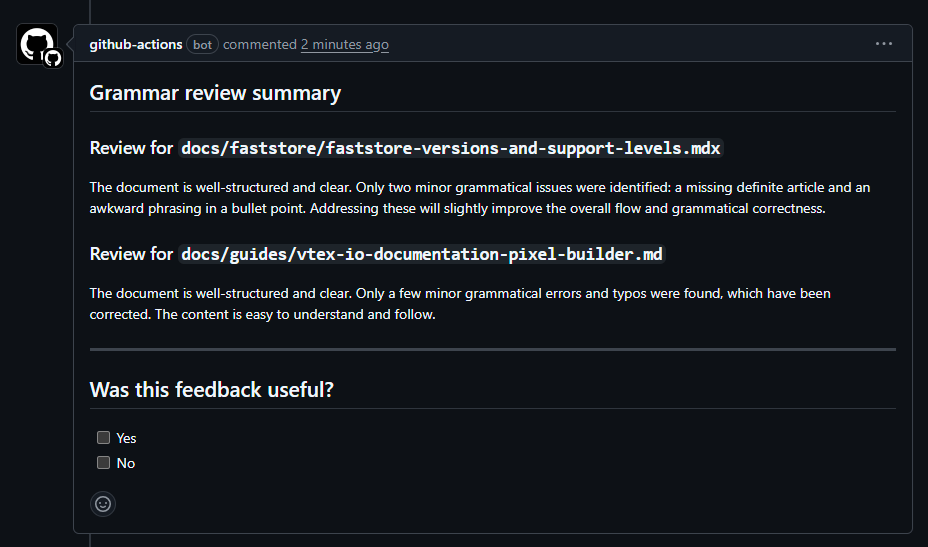
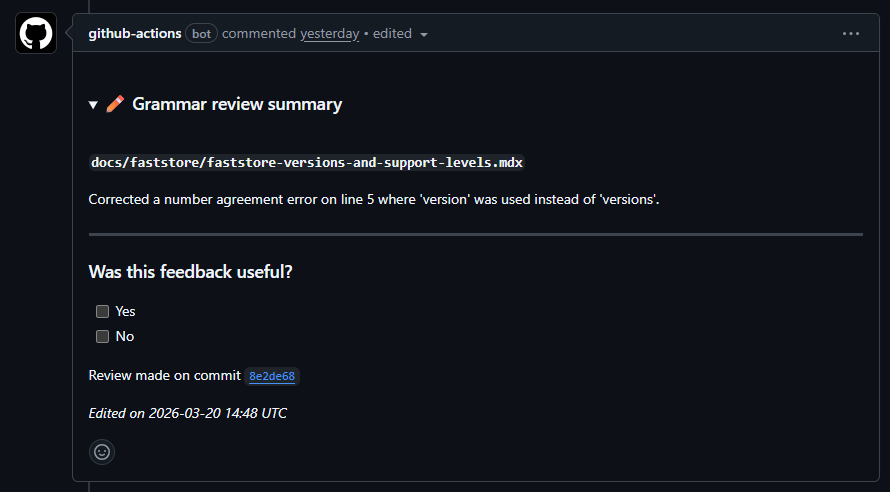
Update README for v0.3

diff --git a/README.md b/README.md
@@ -10,6 +10,8 @@ This action executes a series of steps to read the Markdown files, use Google Ge
 
 The summary comment is a single comment in the PR formatted in Markdown and HTML including a summary of the review for each file reviewed. It also has a feedback option, which is collected by [another action](https://github.com/vtexdocs/dev-portal-content/blob/main/.github/workflows/get_feedback_on_ai_reviewer.yml).
 
+This comment uses `<details>` and `<summary>` tags to contract/expand the comment and avoid long texts in the PR page. It shows the commit ID which the review was done. Also, if the review is done more than once in the PR, the summary comment is edited instead of creating a new one.
+
 ![Summary comment example](./images/summary-comment-example.png)
 
 ### Inline suggestions
@@ -55,42 +57,64 @@ To use this action in your GitHub repository, follow these steps:
                 github_token: ${{ secrets.GITHUB_TOKEN }}
     ```
 
-    The `folders` input is optional. When omitted, only changed files under `docs/` are reviewed. To choose which paths are reviewed, pass `folders` as a newline- or comma-separated list of folder prefixes (e.g. `docs`, `docs/guides`, `docs/release-notes`"):
+## Optional parameters
 
-    ```yml
-            - uses: vtexdocs/ai-grammar-reviewer-action@v0
-              with:
-                gemini_api_key: ${{ secrets.GEMINI_API_KEY }}
-                github_token: ${{ secrets.GITHUB_TOKEN }}
-                folders: |
-                  docs/guides
-                  docs/release-notes
-    ```
+### Folders
 
-    This action also supports `workflow_dispatch`. For dispatch runs, pass the `pr_number` input if the workflow is not triggered by `pull_request`:
+The action has an optional `folders` input. When omitted, only changed files under `docs/` are reviewed. To choose which paths are reviewed, pass `folders` as a newline- or comma-separated list of folder prefixes (e.g. `docs`, `docs/guides`, `docs/release-notes`):
 
-    ```yml
-      on:
-        workflow_dispatch:
-          inputs:
-            pr_number:
-              description: 'Pull request number to review'
-              required: true
-              type: string
+```yml
+        - uses: vtexdocs/ai-grammar-reviewer-action@v0
+          with:
+            gemini_api_key: ${{ secrets.GEMINI_API_KEY }}
+            github_token: ${{ secrets.GITHUB_TOKEN }}
+            folders: |
+              docs/guides
+              docs/release-notes
+```
 
-      jobs:
-        grammar-review:
-          runs-on: ubuntu-latest
-          steps:
-            - uses: actions/checkout@v6
-            - uses: vtexdocs/ai-grammar-reviewer-action@v0
-              with:
-                gemini_api_key: ${{ secrets.GEMINI_API_KEY }}
-                github_token: ${{ secrets.GITHUB_TOKEN }}
-                pr_number: ${{ inputs.pr_number }}
-    ```
+### Workflow dispatch
 
-    If no PR context is available (neither a `pull_request` event nor `pr_number`), the action skips the review.
+This action can also be triggered by `workflow_dispatch` events. For dispatch runs, pass the following optional parameters as input if the workflow is not triggered by `pull_request`:
+
+- `repository`
+- `pr_number`
+- `head_ref`
+- `base_ref`
+- `head_sha`
+
+These parameters are necessary for the workflow to identify the PR and to set the environment variables so that reviewdog posts the inline suggestions.
+
+> [!NOTE]
+> When triggering the action from a workflow with `workflow_dispatch`, [GitHub status checks](https://docs.github.com/en/pull-requests/collaborating-with-pull-requests/collaborating-on-repositories-with-code-quality-features/about-status-checks) won't appear in the PR by default. A possible workaround can be applied using the [GitHub API](https://docs.github.com/en/rest/checks/runs) or the [octokit function](https://octokit.github.io/rest.js/v22/#checks-create) with [`actions/github-script`](https://github.com/marketplace/actions/github-script).
+
+```yml
+  on:
+    workflow_dispatch:
+      inputs:
+        pr_number:
+          description: 'Pull request number to review'
+          required: true
+          type: string
+
+  jobs:
+    grammar-review:
+      runs-on: ubuntu-latest
+      steps:
+        - uses: actions/checkout@v6
+        - uses: vtexdocs/ai-grammar-reviewer-action@v0
+          with:
+            gemini_api_key: ${{ secrets.GEMINI_API_KEY }}
+            github_token: ${{ secrets.GITHUB_TOKEN }}
+            repository: ${{ github.repository }}
+            pr_number: ${{ github.event.pull_request.number }}
+            head_ref: ${{ github.event.pull_request.head.ref }}
+            base_ref: ${{ github.event.pull_request.base.ref }}
+            head_sha: ${{ github.event.pull_request.head.sha }}
+```
+
+> [!IMPORTANT]
+> If no PR context is available (neither a `pull_request` event nor `pr_number` input), the action skips the review.
 
 ## Review tips
 
@@ -127,7 +151,7 @@ The action runs from a Dockerfile that calls a shell script. This script has the
         - A string with the summary of the file review.
     3. Write the lists of issues in a JSON file (`issues.json`), which will be used for the next python script to post the suggestions.
     4. Aggregate the review summaries and use the GitHub API to post them as a single comment along with the feedback option.
-1. Verify if the `issues.json` file exists. If true, execute a Python script (`generate_rdjsonl.py`) to convert the issues JSON to a format that reviewdog accepts and creates another file (`suggestions.rdjsonl`). It uses [RDFormat with rdjsonl](https://github.com/reviewdog/reviewdog/tree/master/proto/rdf#rdjsonl). This script applies the following changes in the issues list before converting to RDFormat:
+2. Verify if the `issues.json` file exists. If true, execute a Python script (`generate_rdjsonl.py`) to convert the issues JSON to a format that reviewdog accepts and creates another file (`suggestions.rdjsonl`). It uses [RDFormat with rdjsonl](https://github.com/reviewdog/reviewdog/tree/master/proto/rdf#rdjsonl). This script applies the following changes in the issues list before converting to RDFormat:
     - Remove issues where the corrected text is equal to the original.
     - If the original text is not found in the provided line number, try to find it in another line and update the line number. If it still isn't found, remove the issue.
     - Aggregate issues in the same line into a single issue. When there are multiple issues in the same line, the explanation is posted as an unordered list.
@@ -135,7 +159,7 @@ The action runs from a Dockerfile that calls a shell script. This script has the
 > [!NOTE]
 > The character/column count in RDFormat is different from the traditional byte count, since it uses UTF-8 encoding internally. This difference occurs with emojis and some special characters (e.g., `’`).
 
-1. Verify if the `suggestions.rdjsonl` file exists. If true, execute reviewdog to post suggestions.
+3. Verify if the `suggestions.rdjsonl` file exists. If true, execute reviewdog to post suggestions.
 
 ```mermaid
 flowchart LR